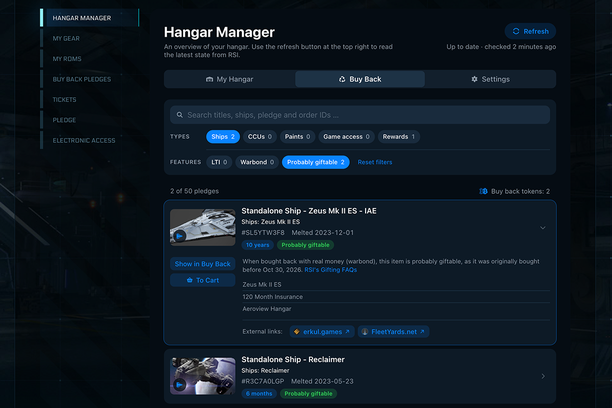
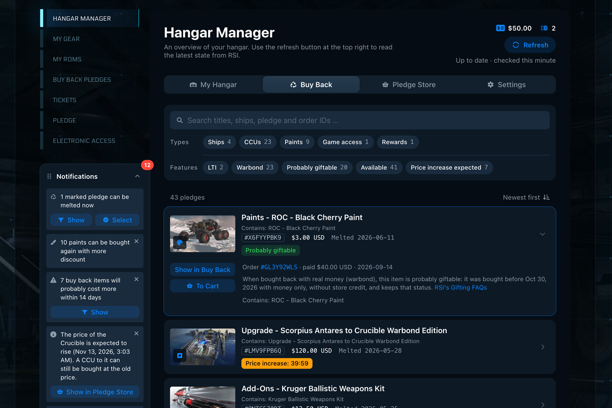
docs(store): Add the screenshots and promo images of 1.1.0
New screenshots of the Pledge Store, the Paint Discount Consultant and the CCUs to secure, with
their Opera sizes, the marquee and the social preview; the website shows them with matching texts.

Refs #35

diff --git a/site/index.html b/site/index.html
@@ -318,8 +318,8 @@
               <div class="feature-media">
                 <img
                   class="screenshot"
-                  src="../store/screenshots/03-pledge-upgrades.png"
-                  alt="Expanded pledge with its applied upgrades and their discounts"
+                  src="../store/screenshots/03-pledge-store-ccu.png"
+                  alt="Pledge Store tab with the current warbond CCUs and the CCUs to secure before a price increase"
                   width="1280"
                   height="800"
                   loading="lazy"
@@ -327,12 +327,12 @@
               </div>
               <div class="feature-text">
                 <span class="feature-number" aria-hidden="true">3</span>
-                <h3>Every upgrade, every discount</h3>
-                <p class="feature-lead">The story of every upgraded ship, step by step.</p>
+                <h3>The Pledge Store at a glance</h3>
+                <p class="feature-lead">Warbond CCUs, events and price increases in one place.</p>
                 <ul class="checklist">
-                  <li>Discounts of ships and CCUs compared to their original price</li>
-                  <li>The full CCU history, with the discount of every step</li>
-                  <li>Orders with invoices, a refund countdown and a prefilled refund request</li>
+                  <li>The current warbond CCUs with the cheapest ships to start from</li>
+                  <li>A history of the warbond offers seen so far, with their events</li>
+                  <li>Event notices like the Intergalactic Aerospace Expo, with countdowns</li>
                 </ul>
               </div>
             </article>
@@ -341,8 +341,8 @@
               <div class="feature-media">
                 <img
                   class="screenshot"
-                  src="../store/screenshots/04-theme-rsi.png"
-                  alt="The Hangar Manager in the Classic RSI theme"
+                  src="../store/screenshots/04-paint-discount-consultant.png"
+                  alt="Paint Discount Consultant with the two ways of a new plan and its steps"
                   width="1280"
                   height="800"
                   loading="lazy"
@@ -350,12 +350,14 @@
               </div>
               <div class="feature-text">
                 <span class="feature-number" aria-hidden="true">4</span>
-                <h3>Made to fit in</h3>
-                <p class="feature-lead">An addition to RSI's pages, not a replacement.</p>
+                <h3>More store credit from your paints</h3>
+                <p class="feature-lead">
+                  The Paint Discount Consultant uses RSI's volume discount.
+                </p>
                 <ul class="checklist">
-                  <li>Two themes: Modern Hangar and Classic RSI</li>
-                  <li>Three font sizes and a compact view</li>
-                  <li>In English, German, French and Spanish</li>
+                  <li>Shows which paints to melt and buy again, on two ways</li>
+                  <li>A plan you start and follow step by step: cart, paying, melting</li>
+                  <li>Paid with store credit only – never with new money</li>
                 </ul>
               </div>
             </article>
@@ -364,8 +366,8 @@
               <div class="feature-media">
                 <img
                   class="screenshot"
-                  src="../store/screenshots/05-settings.png"
-                  alt="Settings tab with language, theme and privacy options"
+                  src="../store/screenshots/05-ccu-base-ship-overview.png"
+                  alt="CCUs to secure before a price increase, with the cheapest CCUs to a ship"
                   width="1280"
                   height="800"
                   loading="lazy"
@@ -373,16 +375,12 @@
               </div>
               <div class="feature-text">
                 <span class="feature-number" aria-hidden="true">5</span>
-                <h3>Private by design</h3>
-                <p class="feature-lead">Your hangar stays in your browser.</p>
+                <h3>Ahead of every price increase</h3>
+                <p class="feature-lead">Know what gets more expensive before it does.</p>
                 <ul class="checklist">
-                  <li>No account, no server of its own, no tracking, no analytics</li>
-                  <li>
-                    Smart updates check a few RSI pages instead of reading the whole hangar again
-                  </li>
-                  <li>
-                    Hide IDs, your name, values and refund periods for screenshots and streams
-                  </li>
+                  <li>The cheapest CCUs to secure before a ship's price rises</li>
+                  <li>A reminder on buy back items that get more expensive</li>
+                  <li>Advice for CCUs that lose or gain upgrade value</li>
                 </ul>
               </div>
             </article>

diff --git a/store/README.md b/store/README.md
@@ -17,20 +17,20 @@ description as plain text, so they use no Markdown.
 
 ## Images
 
-| File                                                         | Size     | Where                                       |
-| ------------------------------------------------------------ | -------- | ------------------------------------------- |
-| [01-my-hangar.png](screenshots/01-my-hangar.png)             | 1280×800 | Screenshots of Chrome, Firefox and Edge     |
-| [02-buy-back.png](screenshots/02-buy-back.png)               | 1280×800 | (in this order)                             |
-| [03-pledge-upgrades.png](screenshots/03-pledge-upgrades.png) | 1280×800 |                                             |
-| [04-theme-rsi.png](screenshots/04-theme-rsi.png)             | 1280×800 |                                             |
-| [05-settings.png](screenshots/05-settings.png)               | 1280×800 |                                             |
-| [small-tile-440x280.png](small-tile-440x280.png)             | 440×280  | Chrome, Edge: small promotional tile        |
-| [marquee-1400x560.png](marquee-1400x560.png)                 | 1400×560 | Chrome, Edge: marquee / large tile (opt.)   |
-| [screenshots-opera/](screenshots-opera)                      | 612×408  | Opera: the same screenshots, smaller        |
-| [promo-300x188.png](promo-300x188.png)                       | 300×188  | Opera: promotional image                    |
-| [icon-64x64.png](icon-64x64.png)                             | 64×64    | Opera: icon (made by `pnpm icons`)          |
-| [logo-300x300.png](logo-300x300.png)                         | 300×300  | Edge: store logo (made by `pnpm icons`)     |
-| [social-preview-1280x640.png](social-preview-1280x640.png)   | 1280×640 | GitHub: Settings → General → Social preview |
+| File                                                                             | Size     | Where                                       |
+| -------------------------------------------------------------------------------- | -------- | ------------------------------------------- |
+| [01-my-hangar.png](screenshots/01-my-hangar.png)                                 | 1280×800 | Screenshots of Chrome, Firefox and Edge     |
+| [02-buy-back.png](screenshots/02-buy-back.png)                                   | 1280×800 | (in this order)                             |
+| [03-pledge-store-ccu.png](screenshots/03-pledge-store-ccu.png)                   | 1280×800 |                                             |
+| [04-paint-discount-consultant.png](screenshots/04-paint-discount-consultant.png) | 1280×800 |                                             |
+| [05-ccu-base-ship-overview.png](screenshots/05-ccu-base-ship-overview.png)       | 1280×800 |                                             |
+| [small-tile-440x280.png](small-tile-440x280.png)                                 | 440×280  | Chrome, Edge: small promotional tile        |
+| [marquee-1400x560.png](marquee-1400x560.png)                                     | 1400×560 | Chrome, Edge: marquee / large tile (opt.)   |
+| [screenshots-opera/](screenshots-opera)                                          | 612×408  | Opera: the same screenshots, smaller        |
+| [promo-300x188.png](promo-300x188.png)                                           | 300×188  | Opera: promotional image                    |
+| [icon-64x64.png](icon-64x64.png)                                                 | 64×64    | Opera: icon (made by `pnpm icons`)          |
+| [logo-300x300.png](logo-300x300.png)                                             | 300×300  | Edge: store logo (made by `pnpm icons`)     |
+| [social-preview-1280x640.png](social-preview-1280x640.png)                       | 1280×640 | GitHub: Settings → General → Social preview |
 
 The store icon is the extension's own, [public/icon/128.png](../public/icon/128.png): the logo at
 96 px with 16 px of transparent padding, as the Chrome Web Store asks for.
@@ -47,6 +47,11 @@ Opera allows screenshots of at most 800×600 and prefers 612×408 (3:2). The Ope
 from the ones above: the screenshots cropped by 40 px on the left and right to 1200×800 and scaled
 down, the promotional image scaled down from the small tile (300×191, then 1 px cut off at the top
 and 2 px at the bottom).
+
+The marquee and the social preview show the first screenshot in front of another one, next to
+the name, the claim and four short points of the listing. They are composed as a web page and
+rendered at their exact size; after new screenshots or texts, render them again. The small tile
+and Opera's promotional image show only the name and need no update.
 
 ## Where each text goes
 
